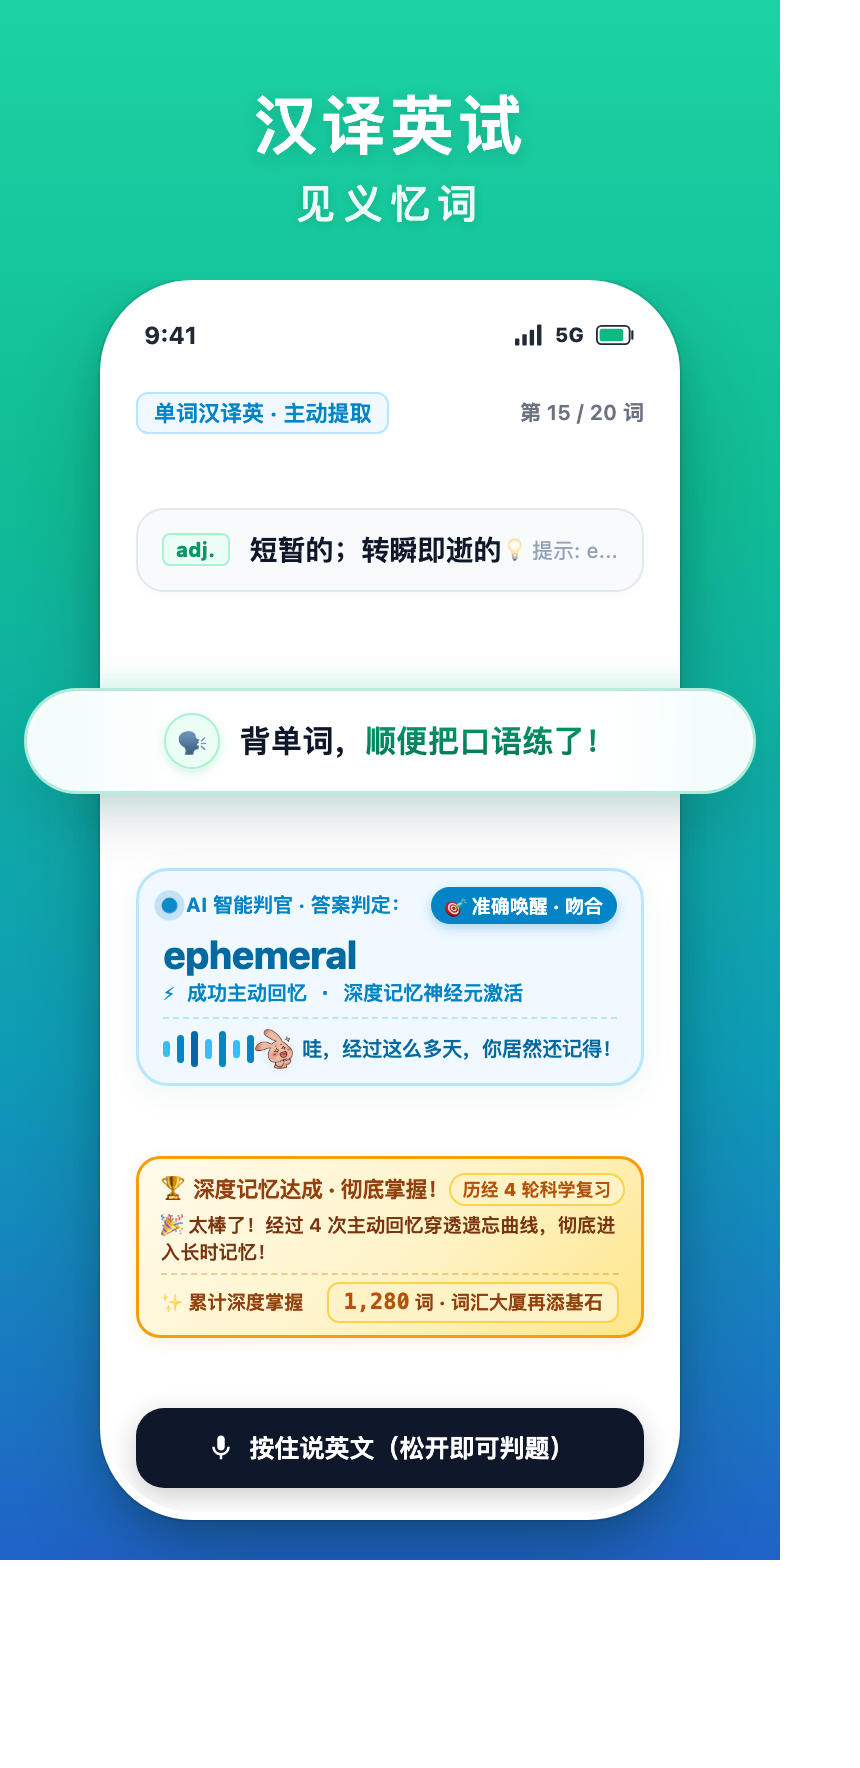
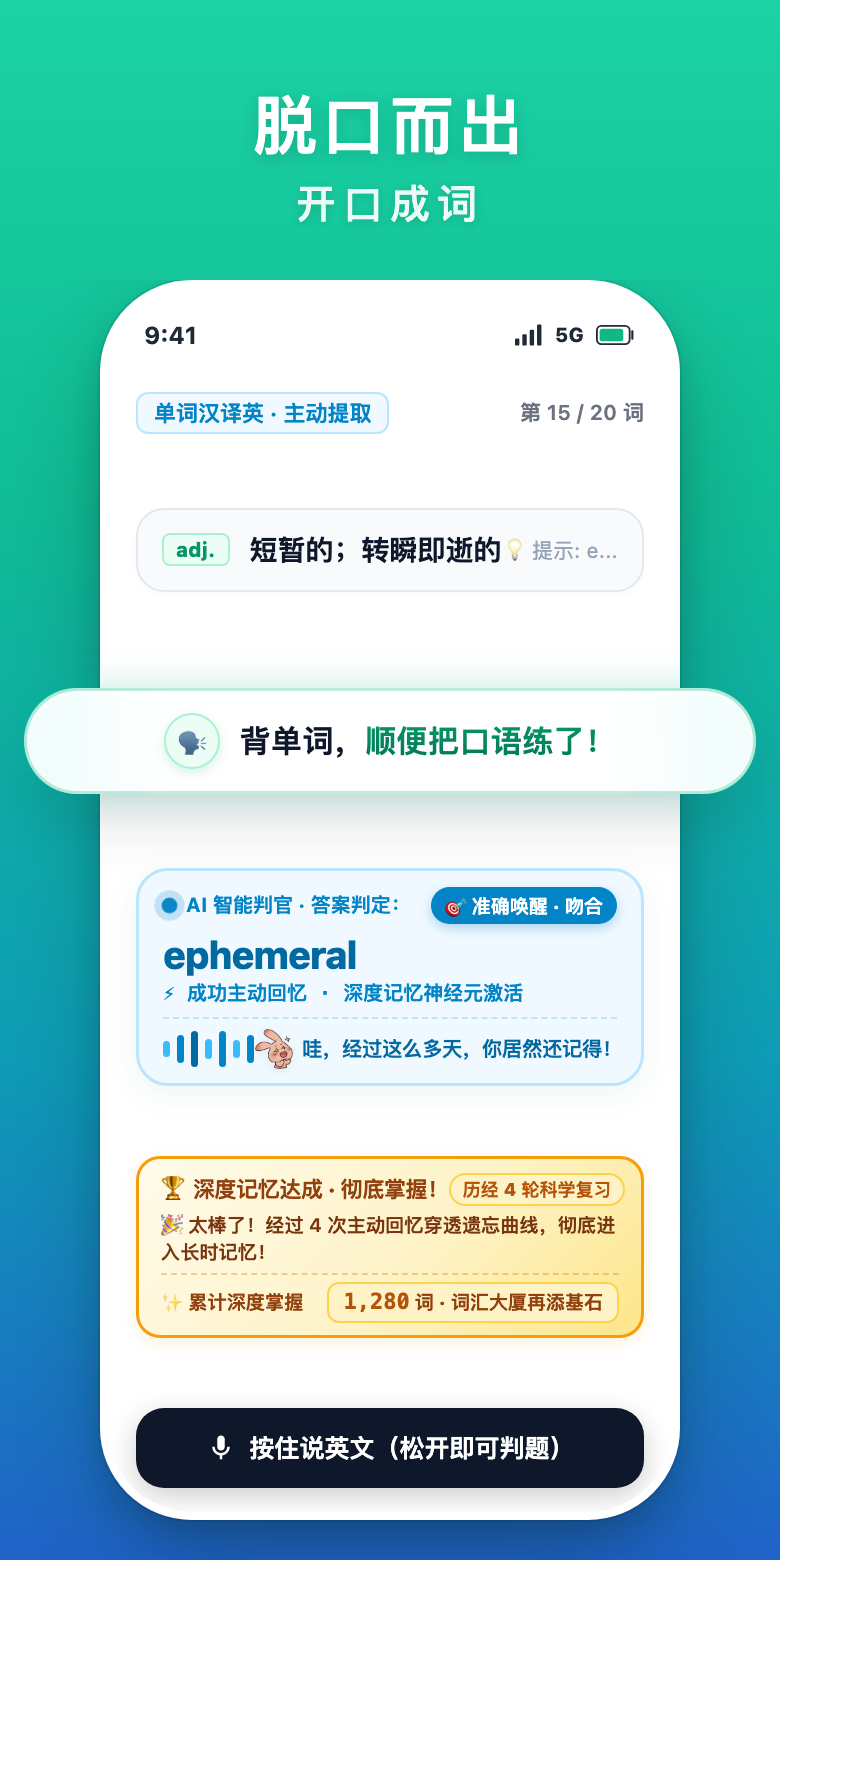
chore: update App Store promotional copy and screenshots

Changed region(s): [[0.3023, 0.0311, 0.6047, 0.1244]]

diff --git a/design/ui/app_store_minimal_clean_preview.html b/design/ui/app_store_minimal_clean_preview.html
@@ -929,11 +929,11 @@
     <!-- 5 联屏海报走廊 -->
     <div class="gallery-row" id="galleryRow">
 
-      <!-- 海报 1: 汉译英试 · 见义忆词 -->
+      <!-- 海报 1: 脱口而出 · 开口成词 -->
       <div class="poster-card" id="card-1">
         <div class="poster-header">
-          <h2 class="p-title" id="p1-title">汉译英试</h2>
-          <div class="p-subtitle" id="p1-sub">见义忆词</div>
+          <h2 class="p-title" id="p1-title">脱口而出</h2>
+          <div class="p-subtitle" id="p1-sub">开口成词</div>
         </div>
 
         <div class="poster-phone-stage">
@@ -1046,11 +1046,11 @@
         </div>
       </div>
 
-      <!-- 海报 2: 英译汉试 · 即视即译 -->
+      <!-- 海报 2: 一眼秒懂 · 见词知意 -->
       <div class="poster-card" id="card-2">
         <div class="poster-header">
-          <h2 class="p-title" id="p2-title">英译汉试</h2>
-          <div class="p-subtitle" id="p2-sub">即视即译</div>
+          <h2 class="p-title" id="p2-title">一眼秒懂</h2>
+          <div class="p-subtitle" id="p2-sub">见词知意</div>
         </div>
 
         <div class="poster-phone-stage">
@@ -1289,7 +1289,7 @@
           <!-- 中央直击人心大横幅 04 -->
           <div class="impact-banner">
             <span class="banner-badge">✍</span>
-            <span class="banner-text">动口之后动手，<span class="highlight">考场拼写万无一失！</span></span>
+            <span class="banner-text">动口又动手，<span class="highlight">考场拼写万无一失！</span></span>
           </div>
         </div>
       </div>
@@ -1606,8 +1606,8 @@
   <script>
     const copyPresets = {
       a: {
-        p1Title: "汉译英试", p1Sub: "见义忆词",
-        p2Title: "英译汉试", p2Sub: "即视即译",
+        p1Title: "脱口而出", p1Sub: "开口成词",
+        p2Title: "一眼秒懂", p2Sub: "见词知意",
         p3Title: "语音答题", p3Sub: "开口成诵",
         p4Title: "真迹默写", p4Sub: "落笔生根",
         p5Title: "临界重温", p5Sub: "精准唤醒",
